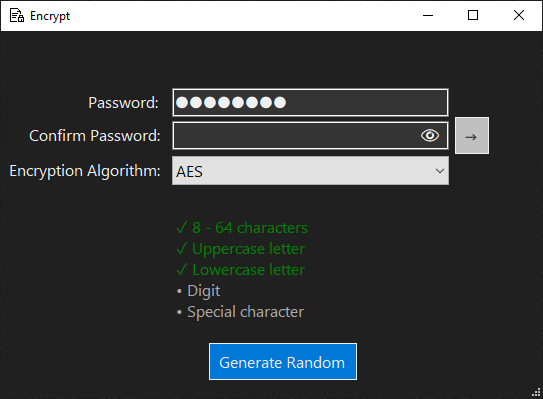
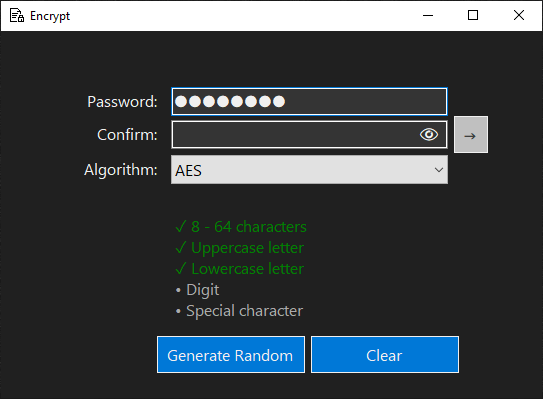
Updated README, UI Updates
Updated README, shortened EncryptForm labels, populated RelocationPanel labels and centered them.

diff --git a/WinFormsUI/Forms/EncryptForm.Designer.cs b/WinFormsUI/Forms/EncryptForm.Designer.cs
@@ -33,11 +33,11 @@
             ClearButton = new Button();
             PasswordWarningLabel = new Label();
             EncryptionAlgorithmComboBox = new ComboBox();
-            EncryptionAlgorithmLabel = new Label();
+            AlgorithmLabel = new Label();
             GenerateRandomButton = new Button();
             EyeballLabel = new Label();
             ConfirmPasswordMaskedTextBox = new MaskedTextBox();
-            ConfirmPasswordLabel = new Label();
+            ConfirmLabel = new Label();
             EnterButton = new Button();
             SpecialCharacterLabel = new Label();
             LowercaseLetterLabel = new Label();
@@ -89,16 +89,16 @@
             EncryptionAlgorithmComboBox.SelectedIndexChanged += EncryptionAlgorithmComboBox_SelectedIndexChanged;
             EncryptionAlgorithmComboBox.Click += EncryptionAlgorithmComboBox_Click;
             // 
-            // EncryptionAlgorithmLabel
+            // AlgorithmLabel
             // 
-            EncryptionAlgorithmLabel.AutoSize = true;
-            EncryptionAlgorithmLabel.Font = new Font("Segoe UI Emoji", 12F);
-            EncryptionAlgorithmLabel.ForeColor = SystemColors.ButtonFace;
-            EncryptionAlgorithmLabel.Location = new Point(3, 127);
-            EncryptionAlgorithmLabel.Name = "EncryptionAlgorithmLabel";
-            EncryptionAlgorithmLabel.Size = new Size(161, 21);
-            EncryptionAlgorithmLabel.TabIndex = 30;
-            EncryptionAlgorithmLabel.Text = "Encryption Algorithm:";
+            AlgorithmLabel.AutoSize = true;
+            AlgorithmLabel.Font = new Font("Segoe UI Emoji", 12F);
+            AlgorithmLabel.ForeColor = SystemColors.ButtonFace;
+            AlgorithmLabel.Location = new Point(79, 127);
+            AlgorithmLabel.Name = "AlgorithmLabel";
+            AlgorithmLabel.Size = new Size(83, 21);
+            AlgorithmLabel.TabIndex = 30;
+            AlgorithmLabel.Text = "Algorithm:";
             // 
             // GenerateRandomButton
             // 
@@ -140,16 +140,16 @@
             ConfirmPasswordMaskedTextBox.Click += ConfirmPasswordMaskedTextBox_Click;
             ConfirmPasswordMaskedTextBox.TextChanged += ConfirmPasswordMaskedTextBox_TextChanged;
             // 
-            // ConfirmPasswordLabel
+            // ConfirmLabel
             // 
-            ConfirmPasswordLabel.AutoSize = true;
-            ConfirmPasswordLabel.Font = new Font("Segoe UI Emoji", 12F);
-            ConfirmPasswordLabel.ForeColor = SystemColors.ButtonFace;
-            ConfirmPasswordLabel.Location = new Point(23, 92);
-            ConfirmPasswordLabel.Name = "ConfirmPasswordLabel";
-            ConfirmPasswordLabel.Size = new Size(141, 21);
-            ConfirmPasswordLabel.TabIndex = 28;
-            ConfirmPasswordLabel.Text = "Confirm Password:";
+            ConfirmLabel.AutoSize = true;
+            ConfirmLabel.Font = new Font("Segoe UI Emoji", 12F);
+            ConfirmLabel.ForeColor = SystemColors.ButtonFace;
+            ConfirmLabel.Location = new Point(92, 92);
+            ConfirmLabel.Name = "ConfirmLabel";
+            ConfirmLabel.Size = new Size(70, 21);
+            ConfirmLabel.TabIndex = 28;
+            ConfirmLabel.Text = "Confirm:";
             // 
             // EnterButton
             // 
@@ -260,11 +260,11 @@
             Controls.Add(ClearButton);
             Controls.Add(PasswordWarningLabel);
             Controls.Add(EncryptionAlgorithmComboBox);
-            Controls.Add(EncryptionAlgorithmLabel);
+            Controls.Add(AlgorithmLabel);
             Controls.Add(GenerateRandomButton);
             Controls.Add(EyeballLabel);
             Controls.Add(ConfirmPasswordMaskedTextBox);
-            Controls.Add(ConfirmPasswordLabel);
+            Controls.Add(ConfirmLabel);
             Controls.Add(EnterButton);
             Controls.Add(SpecialCharacterLabel);
             Controls.Add(LowercaseLetterLabel);
@@ -291,11 +291,11 @@
         private Button ClearButton;
         private Label PasswordWarningLabel;
         private ComboBox EncryptionAlgorithmComboBox;
-        private Label EncryptionAlgorithmLabel;
+        private Label AlgorithmLabel;
         private Button GenerateRandomButton;
         private Label EyeballLabel;
         private MaskedTextBox ConfirmPasswordMaskedTextBox;
-        private Label ConfirmPasswordLabel;
+        private Label ConfirmLabel;
         private Button EnterButton;
         private Label SpecialCharacterLabel;
         private Label LowercaseLetterLabel;

diff --git a/WinFormsUI/Forms/DashboardForm.Designer.cs b/WinFormsUI/Forms/DashboardForm.Designer.cs
@@ -646,7 +646,7 @@
             RelocationPanel_RemoveButton.FlatStyle = FlatStyle.Flat;
             RelocationPanel_RemoveButton.Font = new Font("Segoe UI Emoji", 12F);
             RelocationPanel_RemoveButton.ForeColor = SystemColors.ButtonFace;
-            RelocationPanel_RemoveButton.Location = new Point(449, 457);
+            RelocationPanel_RemoveButton.Location = new Point(434, 460);
             RelocationPanel_RemoveButton.Name = "RelocationPanel_RemoveButton";
             RelocationPanel_RemoveButton.Size = new Size(83, 37);
             RelocationPanel_RemoveButton.TabIndex = 20;
@@ -660,7 +660,7 @@
             RelocationPanel_RelocateButton.FlatStyle = FlatStyle.Flat;
             RelocationPanel_RelocateButton.Font = new Font("Segoe UI Emoji", 12F);
             RelocationPanel_RelocateButton.ForeColor = SystemColors.ButtonFace;
-            RelocationPanel_RelocateButton.Location = new Point(360, 457);
+            RelocationPanel_RelocateButton.Location = new Point(345, 460);
             RelocationPanel_RelocateButton.Name = "RelocationPanel_RelocateButton";
             RelocationPanel_RelocateButton.Size = new Size(83, 37);
             RelocationPanel_RelocateButton.TabIndex = 19;
@@ -673,11 +673,12 @@
             RelocationPanel_LastSeenLabel.AutoSize = true;
             RelocationPanel_LastSeenLabel.Font = new Font("Segoe UI Emoji", 12F);
             RelocationPanel_LastSeenLabel.ForeColor = SystemColors.AppWorkspace;
-            RelocationPanel_LastSeenLabel.Location = new Point(359, 414);
+            RelocationPanel_LastSeenLabel.Location = new Point(344, 415);
             RelocationPanel_LastSeenLabel.Name = "RelocationPanel_LastSeenLabel";
             RelocationPanel_LastSeenLabel.Size = new Size(191, 21);
             RelocationPanel_LastSeenLabel.TabIndex = 18;
             RelocationPanel_LastSeenLabel.Text = "It was last seen at <path>.";
+            RelocationPanel_LastSeenLabel.TextChanged += CenterLabel_TextChanged;
             // 
             // RelocationPanel_CantLocateFileLabel
             // 
@@ -685,11 +686,12 @@
             RelocationPanel_CantLocateFileLabel.AutoSize = true;
             RelocationPanel_CantLocateFileLabel.Font = new Font("Segoe UI Emoji", 20.25F);
             RelocationPanel_CantLocateFileLabel.ForeColor = SystemColors.ButtonFace;
-            RelocationPanel_CantLocateFileLabel.Location = new Point(335, 378);
+            RelocationPanel_CantLocateFileLabel.Location = new Point(320, 379);
             RelocationPanel_CantLocateFileLabel.Name = "RelocationPanel_CantLocateFileLabel";
             RelocationPanel_CantLocateFileLabel.Size = new Size(238, 36);
             RelocationPanel_CantLocateFileLabel.TabIndex = 17;
             RelocationPanel_CantLocateFileLabel.Text = "Can't locate \"path\"";
+            RelocationPanel_CantLocateFileLabel.TextChanged += CenterLabel_TextChanged;
             // 
             // UnlockedPanel
             // 
@@ -971,10 +973,10 @@
             Controls.Add(SearchTextBox);
             Controls.Add(FileListBox);
             Controls.Add(MenuStrip);
-            Controls.Add(UnlockedPanel);
-            Controls.Add(NoFilesPanel);
             Controls.Add(RelocationPanel);
             Controls.Add(LockedPanel);
+            Controls.Add(UnlockedPanel);
+            Controls.Add(NoFilesPanel);
             Font = new Font("Segoe UI Emoji", 12F);
             FormBorderStyle = FormBorderStyle.FixedSingle;
             Icon = (Icon)resources.GetObject("$this.Icon");

diff --git a/WinFormsUI/Forms/DashboardForm.cs b/WinFormsUI/Forms/DashboardForm.cs
@@ -116,6 +116,22 @@ public partial class DashboardForm : Form, IEncryptFormCaller, IDecryptFormCalle
         LockedPanel.Visible = false;
         UnlockedPanel.Visible = false;
         RelocationPanel.Visible = true;
+
+        string displayPath = selectedModel.Path.Length > 64 ? selectedModel.Path.Substring(0, 61) + "..." : selectedModel.Path;
+        string fileDisplayName = selectedModel.FileName.Length > 50 ? selectedModel.FileName.Substring(0, 47) + "..." : selectedModel.FileName;
+        RelocationPanel_CantLocateFileLabel.Text = $"Can't locate {fileDisplayName}";
+        RelocationPanel_LastSeenLabel.Text = $"It was last seen at {displayPath}";
+    }
+
+    private void CenterLabel_TextChanged(object sender, EventArgs e)
+    {
+        if (sender is not Label label)
+            return;
+
+        Size textSize = TextRenderer.MeasureText(label.Text, label.Font);
+        int newX = (label.Parent.ClientSize.Width - textSize.Width) / 2;
+        int newY = label.Location.Y;
+        label.Location = new Point(newX, newY);
     }
 
     private string FormatBytes(int bytes)

diff --git a/README.md b/README.md
@@ -28,18 +28,57 @@ _Coming Soon_
 
 ### Dashboard Form
 
-<img src="./images/DashboardForm.png" alt="Dashboard Form" width="600">
+#### Locked File Selected
 
-The Dashboard Form displays files within FileLocker's scope. Each file's status can be seen to the left of its name. Multiple files can be selected for encryption and deletion.
+A locked file can be decrypted, shredded, shown in File Explorer, or exported.
 
-- **+ Add File**: displays a file dialog to select one or more files to be displayed.
-- **Encrypt**: launches the [**Encrypt Form**](#encrypt-form).
-- **Decrypt**: launches the [**Decrypt Form**](#decrypt-form).
-- **🗑**: shreds a file by overwriting its contents with random data and then deleting.
-- 📥: imports a .zip archive.
-- 📤: exports the selected file into a .zip archive.
-- **User Guide 📖**: opens the GitHub repository in the default browser.
-- **File List**: right click on a file to display options, or drag and drop files onto the panel to add them.
+- **📋 Path**: copies the path to the clipboard.
+- **📋 SHA**: copies the SHA to the clipboard.
+- **Decrypt 🔑**: opens the [**Decrypt Form**](#decrypt-form).
+- **Shred 🗑**: shreds the file by overwriting its contents with random data and then deleting.
+- **Explorer 📁**: launches File Explorer with the file selected.
+- **Export 📤**: exports the file to a .zip archive.
+
+<img src="./images/DashboardForm_LockedPanel.png" alt="Dashboard Form with Locked File Selected" width="1000">
+
+---
+
+#### Unlocked File Selected
+
+An unlocked file can be encrypted, shredded, or shown in File Explorer.
+
+- **📋 Path**: copies the path to the clipboard.
+- **📋 SHA**: copies the SHA to the clipboard.
+- **Encrypt 🔐**: opens the [**Encrypt Form**](#encrypt-form).
+- **Shred 🗑**: shreds the file by overwriting its contents with random data and then deleting.
+- **Explorer 📁**: launches File Explorer with the file selected.
+
+<img src="./images/DashboardForm_UnlockedPanel.png" alt="Dashboard Form with Unlocked File Selected" width="1000">
+
+---
+
+#### Moved/Deleted File Selected
+
+An moved or deleted file can be relocated or removed from scope.
+
+- **Relocate**: find the moved file.
+- **Remove**: remove file from scope.
+
+<img src="./images/DashboardForm_RelocationPanel.png" alt="Dashboard Form with Unlocked File Selected" width="1000">
+
+---
+
+The Dashboard Form also displays files within FileLocker's scope and allows addition and navigation of files.
+
+- **Guide 📖**: opens the GitHub repository in the default browser.
+- **Diagnostics 📊**: _Coming Soon_
+- **Settings ⚙**: _Coming Soon_
+- **Add ▼**: shows dropdown options to add files to the scope by manually selecting or importing an archive.
+- **File List**: right click on a file to display options or drag and drop files onto the list to add them.
+- **Search Bar**: filters files based on the search query.
+
+> [!TIP]
+> Filter by file type by searching `.txt` or `.png`, or filter by algorithm by searching `.aes` or `.3des`.
 
 ---
 
@@ -47,14 +86,15 @@ The Dashboard Form displays files within FileLocker's scope. Each file's status 
 
 <img src="./images/EncryptForm.png" alt="Encrypt Form" width="400">
 
-The Encrypt Form allows users to encrypt by choosing an industry-standard encryption algorithm such as AES or 3DES and providing a strength-enforced password. Passwords cleared after 30 seconds of inactivity.
+The Encrypt Form allows encryption by choosing an industry-standard encryption algorithm such as AES or 3DES and providing a strength-enforced password. Password fields are cleared after 30 seconds of inactivity.
 
 - **Generate Random**: generates a random password that satisfies the strength policy.
+- **Clear**: erases both password fields.
 - **→**: encrypts the file with the provided password.
 - **👁**: shows or hides the password fields.
 
 > [!CAUTION]
-> If the password is lost, so is the file's data. FileLocker maintains a zero-knowledge policy.
+> If the password is lost the file cannot be decrypted. FileLocker maintains a zero-knowledge policy.
 
 ---
 
@@ -62,10 +102,10 @@ The Encrypt Form allows users to encrypt by choosing an industry-standard encryp
 
 <img src="./images/DecryptForm.png" alt="Decrypt Form" width="400">
 
-The Decrypt Form allows users to decrypt by inputting the encryption password. Passwords cleared after 30 seconds of inactivity.
+The Decrypt Form allows decryption by providing the encryption password. Password field is cleared after 30 seconds of inactivity.
 
 - **→**: decrypts the file with the provided password, if correct.
-- **👁**: shows or hides the password.
+- **👁**: shows or hides the password fields.
 
 ---
 
@@ -73,11 +113,11 @@ The Decrypt Form allows users to decrypt by inputting the encryption password. P
 
 <img src="./images/ImportForm.png" alt="Decrypt Form" width="400">
 
-The Import Form allows users to import a .zip archive.
+The Import Form allows an import of a .zip archive.
 
-- **Open**: allows selection of a .zip archive.
-- **Save To**: the location where the plaintext or ciphertext file will be saved.
-- **Import**: imports with the archive and saves to the chosen location.
+- **Open**: choose a .zip archive.
+- **Save To**: the location where the file will be saved.
+- **Import**: loads the archive and saves the file to the chosen location.
 
 ## Technologies
 
@@ -104,5 +144,5 @@ The Import Form allows users to import a .zip archive.
 - **Logging**: Logs important events such as encryption and decryption with Serilog.
 - **Constant-Time Comparison**: Uses libraries with constant-time comparison to mitigate timing attacks.
 - **File Shredder**: Deletes files without leaving traces by overwriting with random data.
-- **Customizable Encryption**: Allows selection of different encryption algorithms.
+- **Customization**: Allows selection of different encryption algorithms.
 - **SOLID Principles**: Follows SOLID principles to facilitate quick code updates in the case of a new exploit.
